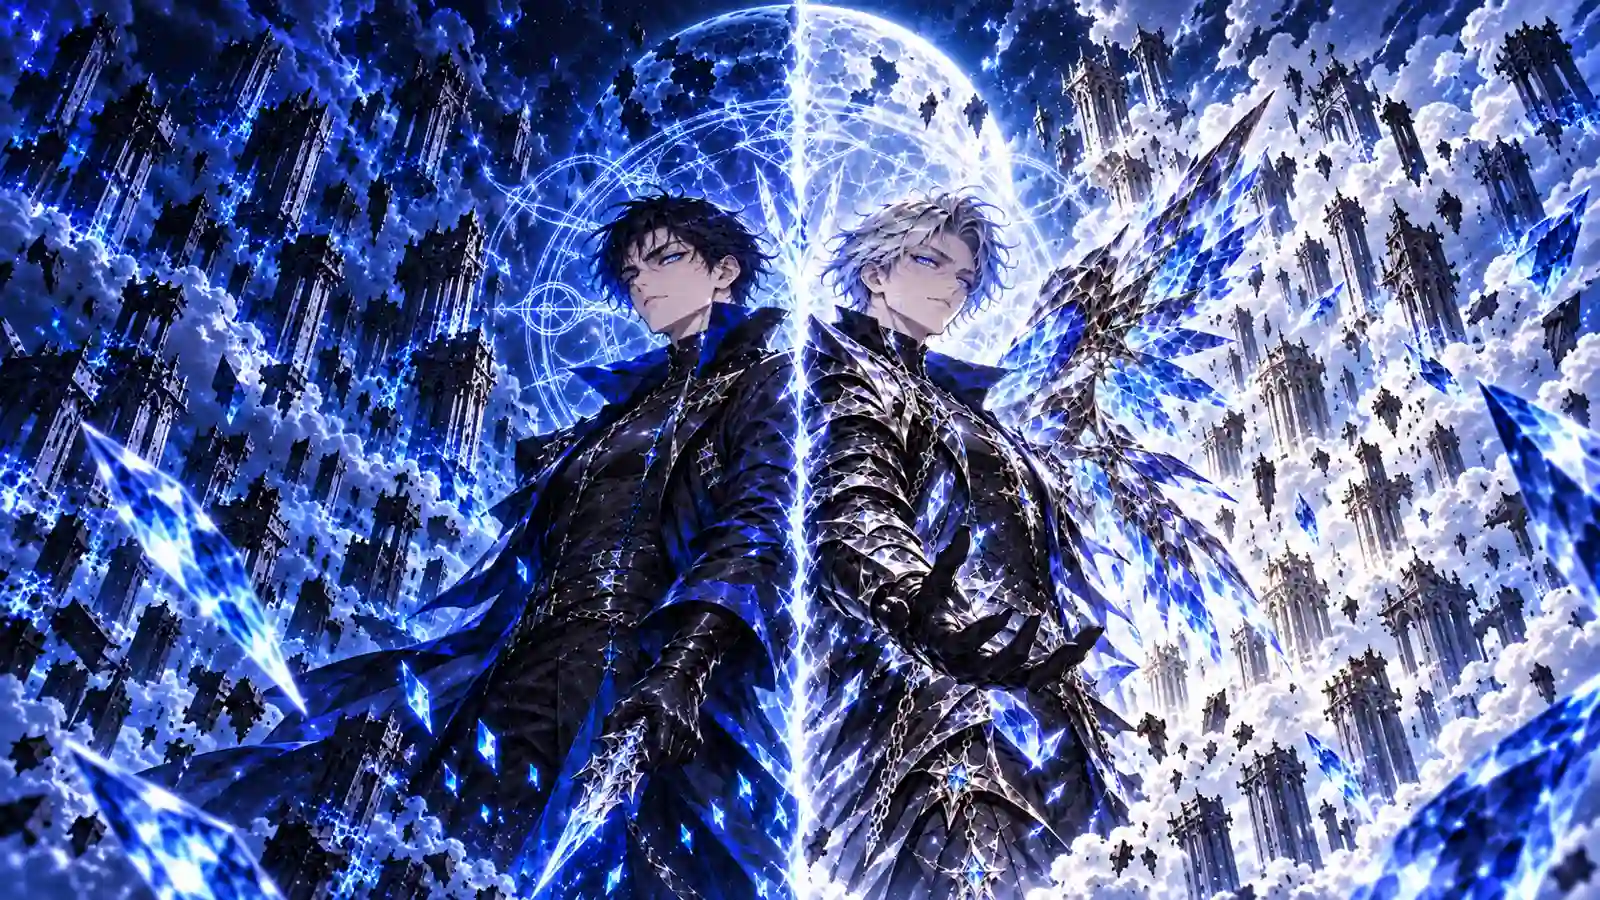
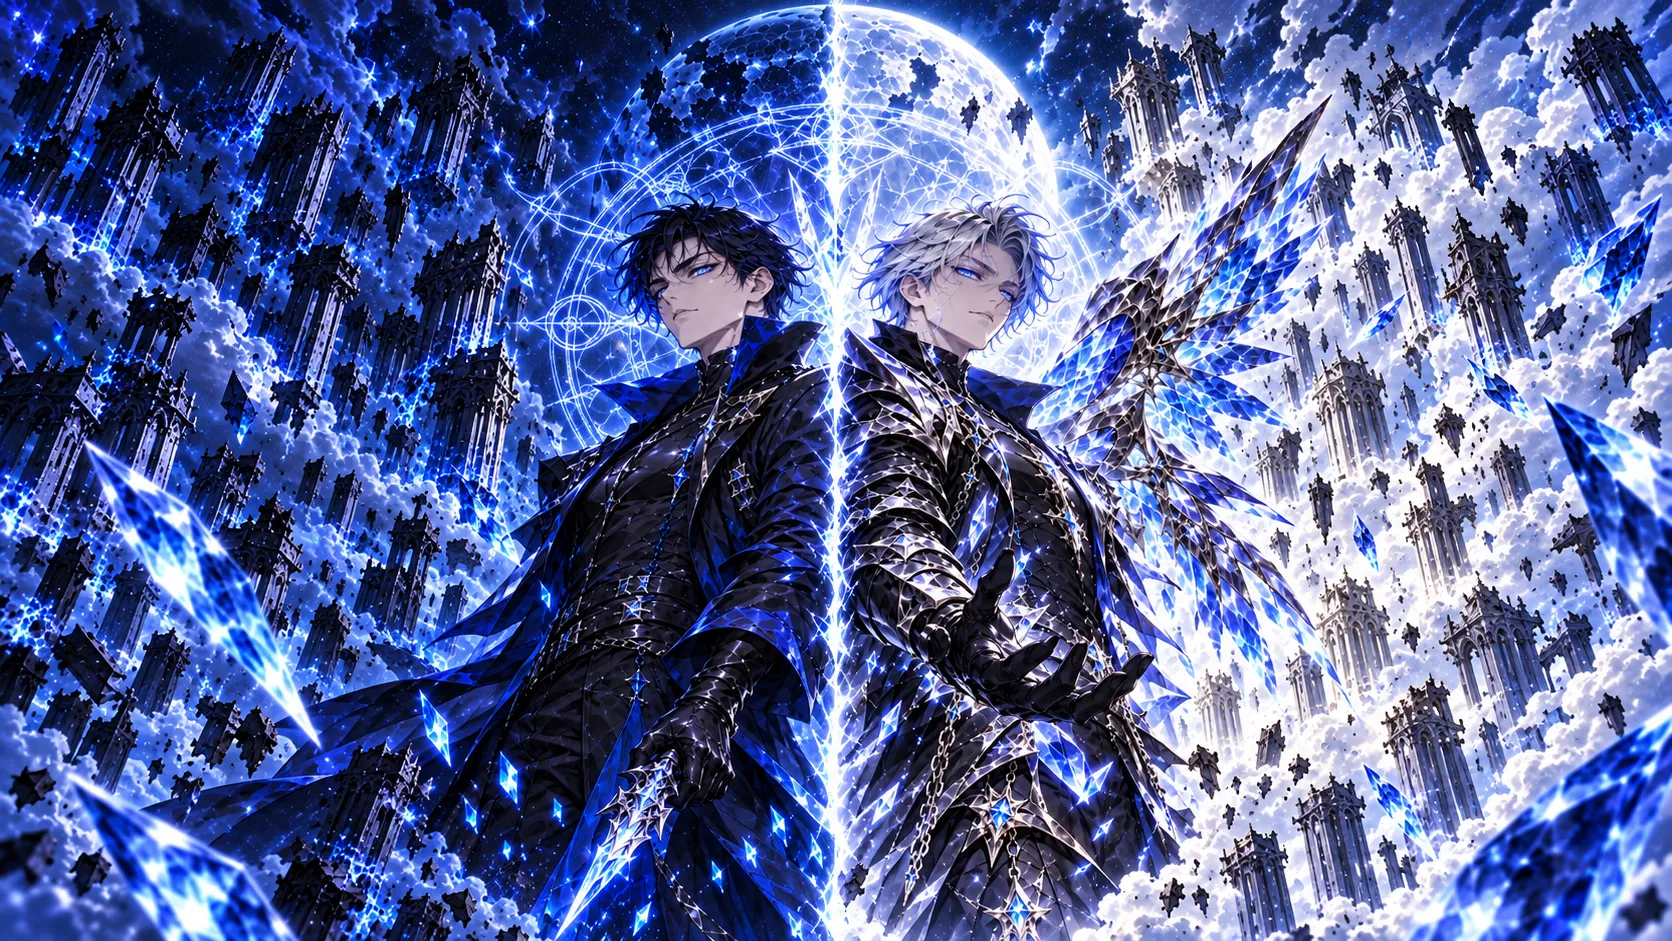
Website: pre-registration stored in Supabase; sharper Mahesvara art

diff --git a/website/src/prereg-logic.ts b/website/src/prereg-logic.ts
@@ -1,5 +1,6 @@
-// Pre-registration. Until the Supabase backend exists (online plan, Task 8) a sign-up is kept in this browser;
-// the game will read it on launch day. The Wardens count is a placeholder until then.
+// Pre-registration, stored in Supabase. The visitor is signed in anonymously; the game reuses that
+// sign-in on launch day to claim the reward. The name is also kept in this browser to show "You're registered".
+import { createClient, type SupabaseClient } from '@supabase/supabase-js';
 export const LAUNCH = new Date('2026-10-16T09:00:00+08:00');
 export const REWARD = 6000;
 export const MILESTONES = [10, 25, 50];
@@ -16,10 +17,25 @@ export function cleanName(raw: string): string {
   if (name.length < 2 || name.length > 16) throw new Error('Choose a name between 2 and 16 characters.');
   return name;
 }
+const URL = 'https://sllaffecbkuayzjxvqju.supabase.co';
+const PUBLISHABLE_KEY = 'sb_publishable_lkTUNwIvmv7ML5m5EAHH8Q_fV2icc2k';
+let client: SupabaseClient | null = null;
+const supabase = () => (client ??= createClient(URL, PUBLISHABLE_KEY));
+
 export function savedName(): string | null { try { return localStorage.getItem(KEY); } catch { return null; } }
-export async function preregister(raw: string): Promise<string> {
+export async function preregister(raw: string, db: SupabaseClient = supabase()): Promise<string> {
   const name = cleanName(raw);
-  try { localStorage.setItem(KEY, name); } catch { /* private mode: still show success */ }
+  const { data } = await db.auth.getSession();
+  if (!data.session) {
+    const { error } = await db.auth.signInAnonymously();
+    if (error) throw new Error('Could not reach the Sanctuary. Please try again.');
+  }
+  const { error } = await db.rpc('preregister', { p_name: name });
+  if (error) throw new Error(error.message);
+  try { localStorage.setItem(KEY, name); } catch { /* private mode */ }
   return name;
 }
-export async function waitingCount(): Promise<number> { return savedName() ? 1 : 0; }
+export async function waitingCount(db: SupabaseClient = supabase()): Promise<number> {
+  const { data, error } = await db.rpc('prereg_count');
+  return error ? 0 : (data as number);
+}

diff --git a/website/src/prereg-logic.test.ts b/website/src/prereg-logic.test.ts
@@ -1,5 +1,5 @@
 import { describe, expect, it } from 'vitest';
-import { LAUNCH, cleanName, launchState, milestoneLamps } from './prereg-logic';
+import { LAUNCH, cleanName, launchState, milestoneLamps, preregister, waitingCount } from './prereg-logic';
 
 describe('pre-registration', () => {
   it('counts down to 16 Oct 2026 and switches to live at launch', () => {
@@ -13,5 +13,32 @@ describe('pre-registration', () => {
     expect(cleanName('  Jay  ')).toBe('Jay');
     expect(() => cleanName('J')).toThrow();
     expect(() => cleanName('x'.repeat(17))).toThrow();
+  });
+});
+
+describe('pre-registration with Supabase', () => {
+  const fake = (over: Record<string, unknown> = {}) => {
+    const calls: string[] = [];
+    const db = {
+      auth: {
+        getSession: async () => ({ data: { session: null } }),
+        signInAnonymously: async () => { calls.push('signin'); return { error: null }; },
+      },
+      rpc: async (fn: string, args?: unknown) => { calls.push(fn + (args ? JSON.stringify(args) : '')); return fn === 'prereg_count' ? { data: 7, error: null } : { data: null, error: null }; },
+      ...over,
+    };
+    return { db, calls };
+  };
+  it('signs in anonymously and registers the cleaned name', async () => {
+    const { db, calls } = fake();
+    expect(await preregister('  Jay  ', db as never)).toBe('Jay');
+    expect(calls).toEqual(['signin', 'preregister{"p_name":"Jay"}']);
+  });
+  it('shows the server error, e.g. a taken name', async () => {
+    const { db } = fake({ rpc: async () => ({ data: null, error: { message: 'That Warden name is taken. Try another.' } }) });
+    await expect(preregister('Jay', db as never)).rejects.toThrow('taken');
+  });
+  it('reads the real Wardens count', async () => {
+    expect(await waitingCount(fake().db as never)).toBe(7);
   });
 });
